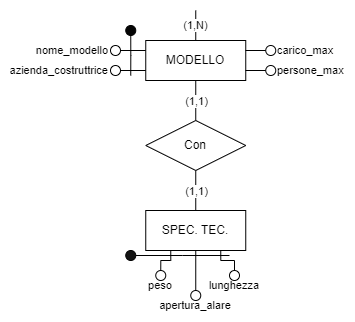
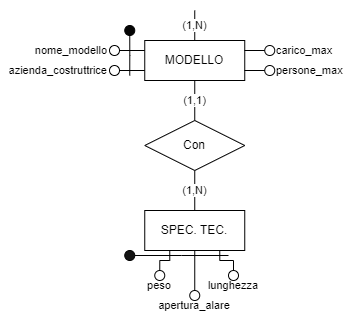
aggiunta la sezione 'reificazione schema ER' (prima iterazione)

diff --git a/BozzaRelazione.md b/BozzaRelazione.md
@@ -52,7 +52,7 @@ specifiche_tecniche: (peso, lunghezza, apertura_alare)
     - Dato un gate restituisce l'elenco dei voli programmati in giornata
 
 4. **ricerca_voli_destinazione**
-    - Data una destinazione restituisce l'elenco dei dei voli che partono in giornata e la raggiungono
+    - Data una destinazione restituisce l'elenco dei voli che partono in giornata e la raggiungono
 
 5. **ricerca_voli_odierni**
     - Restituisce l'elenco dei voli in partenza in giornata
@@ -63,7 +63,7 @@ specifiche_tecniche: (peso, lunghezza, apertura_alare)
 7. **Inserisci_volo**
     - Inserisce un volo nel database
 
-**operazioni complesse**
+**Operazioni complesse**
 
 8. **Steward_Aerei_Pesanti**
     - Il numero di steward che lavorano su voli che fanno tratte con aerei con peso almeno X e al massimo Y
@@ -79,14 +79,11 @@ specifiche_tecniche: (peso, lunghezza, apertura_alare)
 ### Prototipo
 ![Schema ER prototipo](schemi/SchemaER-Prototipo.png)
 
-perche non ha funzionato
+Perche' non ha funzionato
 
-<<<<<<< HEAD
-![Schema ER finale](schemi/SchemaER-schema_iniziale.png)
-=======
+
 ### Schema finale
 ![Schema ER finale](schemi/SchemaER-Schema_iniziale.png)
->>>>>>> upstream/master
 
 
 ## Regole di derivazione
@@ -99,7 +96,7 @@ Dato un volo, ritorna il numero massimo di passeggeri imbarcabili.
 
 Capacità passeggeri si ottiene con persone_max meno numero di persone nell'equipaggio.
 
-## Vincoli di integrità
+## Vincoli d'integrità
 
 ### RV1 **Equipaggio non eccede persone_max**
 In ogni il numero di persone che compone l'equipaggio deve essere minore o uguale al numero massimo di persone trasportabili dall'aereomobile.
@@ -125,8 +122,7 @@ L'entità "EQUIPAGGIO" deve avere almeno uno fra hostess e steward.
 |   Imbarca   | Relazione |   20   |
 |   Tratta    | Relazione |   20   |
 
-<<<<<<< HEAD
-=======
+
 #### Note
 - Il numero dei piloti deve essere il doppio rispetto al numero degli equipaggi per via della cardinalità (2,2) della relazione
 
@@ -149,7 +145,32 @@ Capacità_passeggeri è un attributo interessante da analizzare perché richiede
 
 (definire il punto di rottura delle frequenze: quando conviene mantenere ridondanza o eliminarla)
 
->>>>>>> upstream/master
+## Reificazione schema ER
+
+In questa fase della relazione discuteremo di come abbiamo modificato lo schema concettuale proposto, reiterando le parti di schema che non possono essere tradotte direttamente nello schema relazionale.
+
+### Assistente dell'equipaggio
+
+![Schema ER finale](schemi/SchemaER-reiterazione_assistente.png)
+
+
+Nel contesto dello schema Entity-Relationship (ER), è emersa la necessità di trattare una specializzazione di "assistente" attraverso le entità HOSTESS e STEWARD. Tuttavia, la trasposizione diretta di questa specializzazione in uno schema relazionale non è praticabile. Pertanto, si è optato per una connessione diretta delle entità HOSTESS e STEWARD all'entità EQUIPAGGIO.
+
+Tuttavia, questa scelta di modellazione comporta la perdita del vincolo precedentemente espresso dalla generalizzazione, il quale garantiva che ogni istanza di EQUIPAGGIO dovesse includere almeno un'istanza tra HOSTESS e STEWARD. Al fine di preservare tale vincolo nell'ambito dello schema relazionale, si è reso necessario introdurre un vincolo d'integrità esterno.
+
+--- 
+
+### Modello di aeromobile
+
+![Schema ER finale](schemi/SchemaER-reiterazione_modello.png)
+
+Qui si e' risolto il problema di un attributo composto che raggruppava gli attributi "peso", "lunghezza" ed "apertura_alare" in "specifiche tecniche". A questo punto si e' deciso di creare un'entita' specifiche tecniche identificata dai propri attributi e collegata a modello in relazione one-to-many. 
+
+In questa fase di reificazione bisognava risolvere l'attributo composto denominato "specifiche tecniche", il quale raggruppava gli attributi "peso", "lunghezza" ed "apertura alare". Per risolvere questa problematica, si è deciso d'introdurre un'entità dedicata denominata "Specifiche Tecniche".
+
+L'entità "Specifiche Tecniche" è stata progettata con l'intento di rappresentare in modo esplicito le caratteristiche tecniche precedentemente racchiuse nell'attributo composto. La creazione di tale entità permette di gestire in modo più flessibile e strutturato le informazioni relative alle specifiche tecniche.
+
+Le due entita' MODELLO e SPEC. TEC. sono in relazione one-to-many. Questa relazione è stata implementata per riflettere il fatto che un insieme di specifiche tecniche può essere associato a più modelli, mentre ciascun modello è collegato a un unico insieme di specifiche tecniche.
 
 ## Schema logico
 
